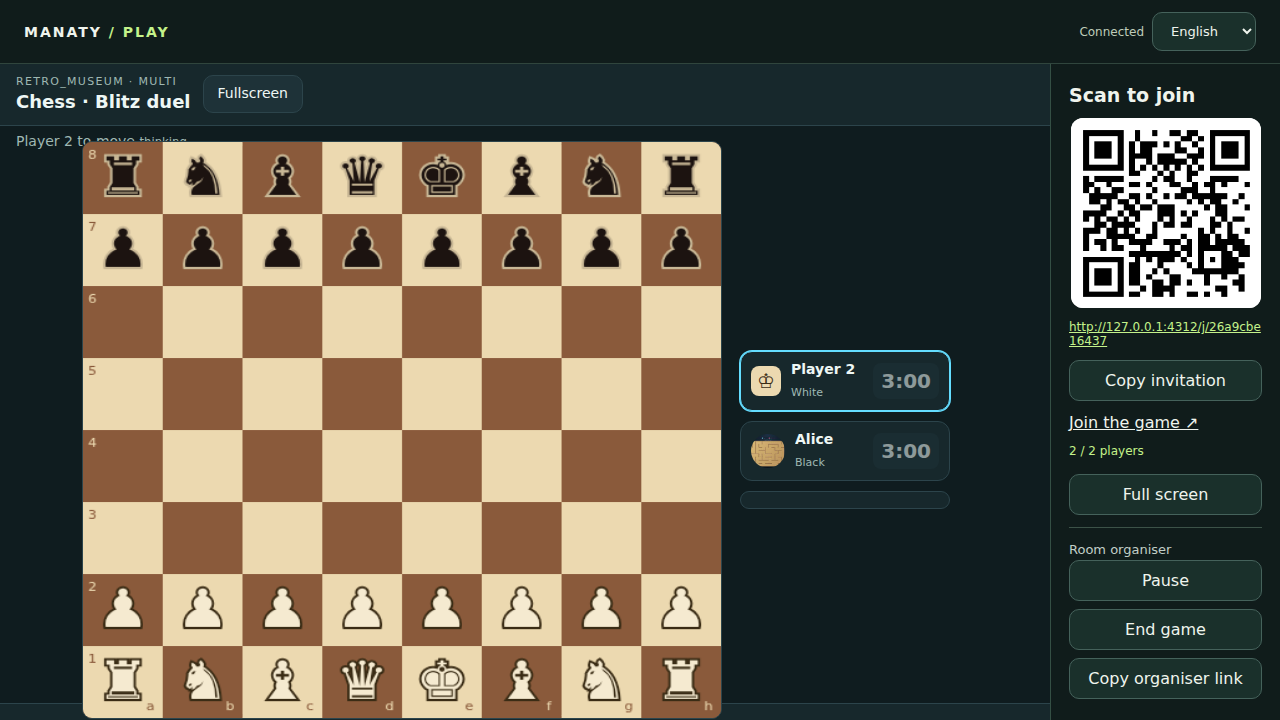
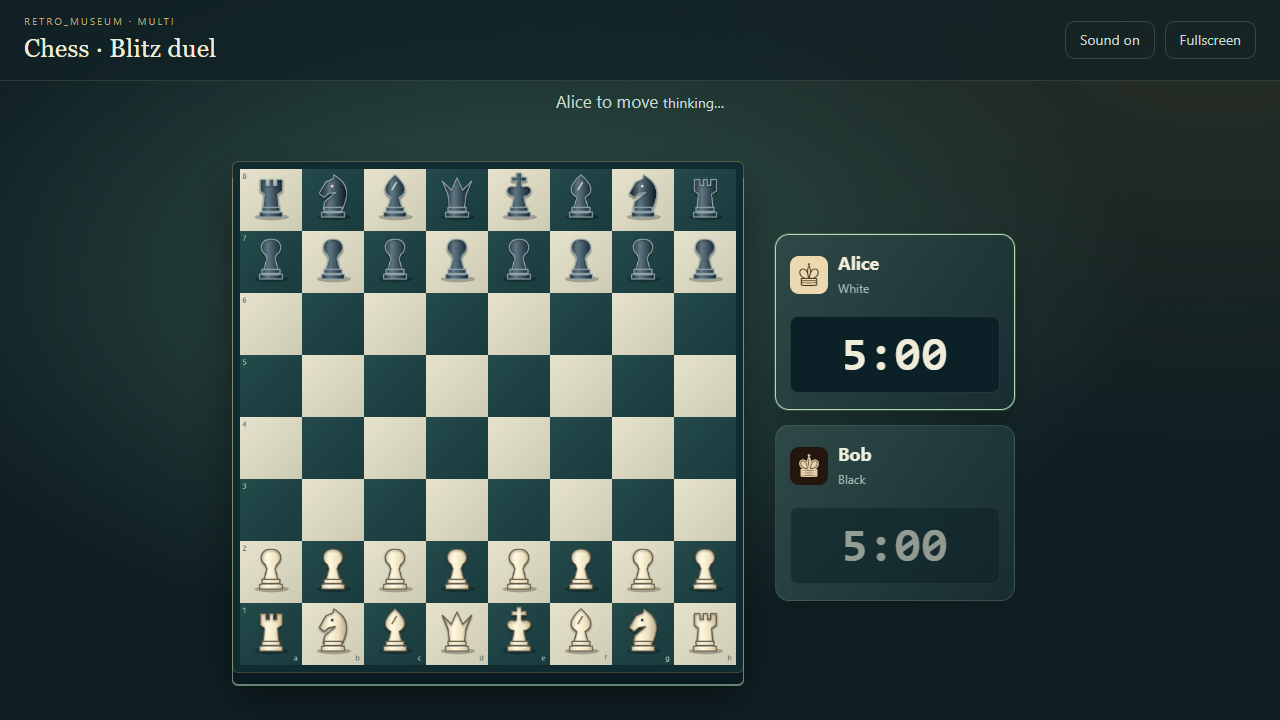
chore: publish visual editions of Chess and Sketch

diff --git a/docs/graphics-1.1.0.md b/docs/graphics-1.1.0.md
@@ -1,0 +1,15 @@
+# Visual release QA — Chess and Sketch 1.1.0
+
+Independent publisher QA performed by Codex (automated agent), September 2026.
+
+Chess now uses original vector piece silhouettes, shaded ivory/slate pieces, an emerald board, animated moves, visible capture targets, prominent player clocks and a trophy/confetti result scene. Sketch now uses an illustrated studio theme, dotted drawing surface, colourful score cards, redesigned drawing tools, animated word reveals and a trophy/confetti podium. Vector artwork is original code, not downloaded imagery. Rendering remains offline.
+
+Validation on the built 1.1.0 packages:
+
+- 21 Chess engine/host tests and 16 Sketch engine/host tests pass, including complete matches, restoration, no-winner outcomes, host replay and late-player inclusion.
+- Two additional committed browser suites exercise 18 configurations: display 960×540, 1280×720 and 1920×1080; controller 320×568, 390×844 and 844×390; Chess with two players, Sketch with two/eight players. Canvas aspect ratio, visible bounds and horizontal fit pass.
+- Browser tests confirm reduced-motion disables all 21 trophy/confetti animation elements, and twelve identical server states cause zero canvas repaints. These suites are part of each game's GitHub workflow.
+- Interactive Edge sessions exercise a shared display and two controllers: seven chess moves through checkmate, and Sketch word selection, pointer drawing, secret-word isolation and a submitted correct guess. EN/FR/TL switching, sound preferences and missing fullscreen APIs pass without page errors.
+- Independent SDK prevalidation passes at the declared player limits. Screenshots in each game's `docs` directory are captured from actual browser sessions and were visually inspected.
+
+These checks do not certify physical older TVs, Android hardware, eight physical phones, all chess tournament rules, audible sound quality or exhaustive accessibility. Existing casual-game rule limitations remain in the game READMEs. Animations are finite, do not flash and respect reduced-motion preferences. Match engines and network protocols are unchanged.
